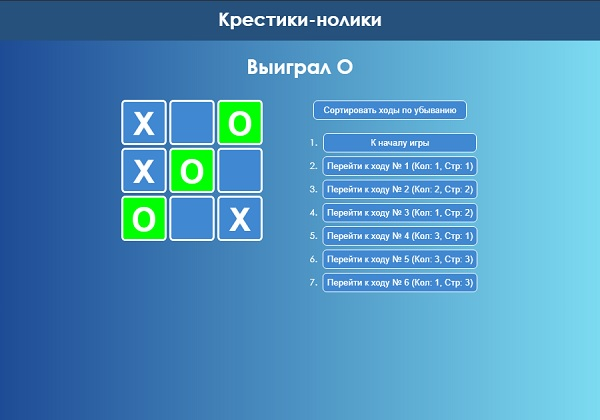
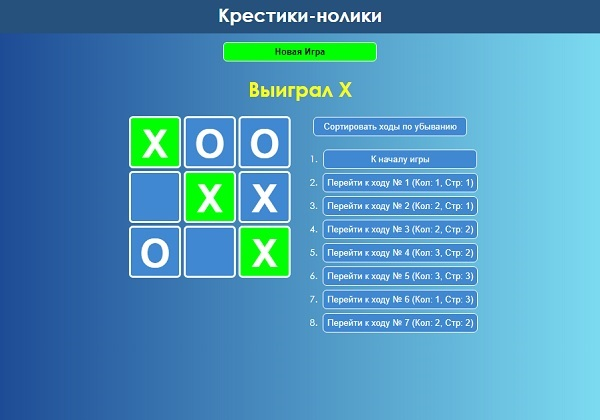
Tic-Tac-Game project has been modified

Changed region(s): [[0.0, 0.0, 1.0, 0.8048]]

diff --git a/projects/tictactoe_game_react/index.html b/projects/tictactoe_game_react/index.html
@@ -1,1 +1,1 @@
-<!doctype html><html lang="en"><head><meta charset="utf-8"/><meta name="viewport" content="width=device-width,initial-scale=1"/><meta name="theme-color" content="#000000"/><meta name="description" content="Web site created using create-react-app"/><link rel="manifest" href="manifest.json"/><title>React App</title><link href="static/css/main.9c473dc5.chunk.css" rel="stylesheet"></head><body><noscript>You need to enable JavaScript to run this app.</noscript><div id="errors" style="background:#c00;color:#fff;display:none;margin:-20px -20px 20px;padding:20px;white-space:pre-wrap"></div><header><h1>Крестики-нолики</h1></header><div id="root"></div><script>window.addEventListener("mousedown",function(t){document.body.classList.add("mouse-navigation"),document.body.classList.remove("kbd-navigation")}),window.addEventListener("keydown",function(t){9===t.keyCode&&(document.body.classList.add("kbd-navigation"),document.body.classList.remove("mouse-navigation"))}),window.addEventListener("click",function(t){"A"===t.target.tagName&&"#"===t.target.getAttribute("href")&&t.preventDefault()}),window.onerror=function(t,e,n,o,r){var i=r?r.stack||r:t+" (at "+e+":"+n+":"+o+")";errors.textContent+=i+"\n",errors.style.display=""},console.error=function(t){return function(){errors.textContent+=Array.prototype.slice.call(arguments).join(" ")+"\n",errors.style.display="",t.apply(this,arguments)}}(console.error)</script><script>!function(i){function e(e){for(var t,r,n=e[0],o=e[1],u=e[2],a=0,c=[];a<n.length;a++)r=n[a],Object.prototype.hasOwnProperty.call(f,r)&&f[r]&&c.push(f[r][0]),f[r]=0;for(t in o)Object.prototype.hasOwnProperty.call(o,t)&&(i[t]=o[t]);for(s&&s(e);c.length;)c.shift()();return p.push.apply(p,u||[]),l()}function l(){for(var e,t=0;t<p.length;t++){for(var r=p[t],n=!0,o=1;o<r.length;o++){var u=r[o];0!==f[u]&&(n=!1)}n&&(p.splice(t--,1),e=a(a.s=r[0]))}return e}var r={},f={1:0},p=[];function a(e){if(r[e])return r[e].exports;var t=r[e]={i:e,l:!1,exports:{}};return i[e].call(t.exports,t,t.exports,a),t.l=!0,t.exports}a.m=i,a.c=r,a.d=function(e,t,r){a.o(e,t)||Object.defineProperty(e,t,{enumerable:!0,get:r})},a.r=function(e){"undefined"!=typeof Symbol&&Symbol.toStringTag&&Object.defineProperty(e,Symbol.toStringTag,{value:"Module"}),Object.defineProperty(e,"__esModule",{value:!0})},a.t=function(t,e){if(1&e&&(t=a(t)),8&e)return t;if(4&e&&"object"==typeof t&&t&&t.__esModule)return t;var r=Object.create(null);if(a.r(r),Object.defineProperty(r,"default",{enumerable:!0,value:t}),2&e&&"string"!=typeof t)for(var n in t)a.d(r,n,function(e){return t[e]}.bind(null,n));return r},a.n=function(e){var t=e&&e.__esModule?function(){return e.default}:function(){return e};return a.d(t,"a",t),t},a.o=function(e,t){return Object.prototype.hasOwnProperty.call(e,t)},a.p="/";var t=this.webpackJsonptictactoe_game_react=this.webpackJsonptictactoe_game_react||[],n=t.push.bind(t);t.push=e,t=t.slice();for(var o=0;o<t.length;o++)e(t[o]);var s=n;l()}([])</script><script src="static/js/2.cf18ddba.chunk.js"></script><script src="static/js/main.7859f1d2.chunk.js"></script></body></html>
+<!doctype html><html lang="ru"><head><meta charset="utf-8"/><meta name="viewport" content="width=device-width,initial-scale=1"/><meta name="description" content="Web site created using create-react-app"/><title>Крестики-нолики</title><link href="static/css/main.ea087faf.chunk.css" rel="stylesheet"></head><body><noscript>You need to enable JavaScript to run this app.</noscript><div id="errors" style="background:#c00;color:#fff;display:none;margin:-20px -20px 20px;padding:20px;white-space:pre-wrap"></div><header><h1>Крестики-нолики</h1></header><div id="root"></div><script>window.addEventListener("mousedown",function(t){document.body.classList.add("mouse-navigation"),document.body.classList.remove("kbd-navigation")}),window.addEventListener("keydown",function(t){9===t.keyCode&&(document.body.classList.add("kbd-navigation"),document.body.classList.remove("mouse-navigation"))}),window.addEventListener("click",function(t){"A"===t.target.tagName&&"#"===t.target.getAttribute("href")&&t.preventDefault()}),window.onerror=function(t,e,n,o,r){var i=r?r.stack||r:t+" (at "+e+":"+n+":"+o+")";errors.textContent+=i+"\n",errors.style.display=""},console.error=function(t){return function(){errors.textContent+=Array.prototype.slice.call(arguments).join(" ")+"\n",errors.style.display="",t.apply(this,arguments)}}(console.error)</script><script>!function(i){function e(e){for(var t,r,n=e[0],o=e[1],u=e[2],a=0,c=[];a<n.length;a++)r=n[a],Object.prototype.hasOwnProperty.call(f,r)&&f[r]&&c.push(f[r][0]),f[r]=0;for(t in o)Object.prototype.hasOwnProperty.call(o,t)&&(i[t]=o[t]);for(s&&s(e);c.length;)c.shift()();return p.push.apply(p,u||[]),l()}function l(){for(var e,t=0;t<p.length;t++){for(var r=p[t],n=!0,o=1;o<r.length;o++){var u=r[o];0!==f[u]&&(n=!1)}n&&(p.splice(t--,1),e=a(a.s=r[0]))}return e}var r={},f={1:0},p=[];function a(e){if(r[e])return r[e].exports;var t=r[e]={i:e,l:!1,exports:{}};return i[e].call(t.exports,t,t.exports,a),t.l=!0,t.exports}a.m=i,a.c=r,a.d=function(e,t,r){a.o(e,t)||Object.defineProperty(e,t,{enumerable:!0,get:r})},a.r=function(e){"undefined"!=typeof Symbol&&Symbol.toStringTag&&Object.defineProperty(e,Symbol.toStringTag,{value:"Module"}),Object.defineProperty(e,"__esModule",{value:!0})},a.t=function(t,e){if(1&e&&(t=a(t)),8&e)return t;if(4&e&&"object"==typeof t&&t&&t.__esModule)return t;var r=Object.create(null);if(a.r(r),Object.defineProperty(r,"default",{enumerable:!0,value:t}),2&e&&"string"!=typeof t)for(var n in t)a.d(r,n,function(e){return t[e]}.bind(null,n));return r},a.n=function(e){var t=e&&e.__esModule?function(){return e.default}:function(){return e};return a.d(t,"a",t),t},a.o=function(e,t){return Object.prototype.hasOwnProperty.call(e,t)},a.p="/";var t=this.webpackJsonptictactoe_game_react=this.webpackJsonptictactoe_game_react||[],n=t.push.bind(t);t.push=e,t=t.slice();for(var o=0;o<t.length;o++)e(t[o]);var s=n;l()}([])</script><script src="static/js/2.cf18ddba.chunk.js"></script><script src="static/js/main.fd8b8632.chunk.js"></script></body></html>

diff --git a/projects/tictactoe_game_react/static/js/main.fd8b8632.chunk.js b/projects/tictactoe_game_react/static/js/main.fd8b8632.chunk.js
@@ -1,0 +1,2 @@
+(this.webpackJsonptictactoe_game_react=this.webpackJsonptictactoe_game_react||[]).push([[0],{14:function(e,t,a){},15:function(e,t,a){"use strict";a.r(t);var n=a(8),r=a(1),s=a(2),i=a(5),l=a(3),u=a(6),o=a(0),c=a.n(o),h=a(4),m=a.n(h);a(14),Boolean("localhost"===window.location.hostname||"[::1]"===window.location.hostname||window.location.hostname.match(/^127(?:\.(?:25[0-5]|2[0-4][0-9]|[01]?[0-9][0-9]?)){3}$/));function g(e){return c.a.createElement("button",{className:"square",onClick:e.onClick},e.value)}var d=function(e){function t(){return Object(r.a)(this,t),Object(i.a)(this,Object(l.a)(t).apply(this,arguments))}return Object(u.a)(t,e),Object(s.a)(t,[{key:"renderSquare",value:function(e){var t=this;return c.a.createElement(g,{value:this.props.squares[e],onClick:function(){return t.props.onClick(e)}})}},{key:"renderRow",value:function(e){return c.a.createElement("div",{className:"board-row"},this.renderSquare(e),this.renderSquare(e+1),this.renderSquare(e+2))}},{key:"render",value:function(){return c.a.createElement("div",null,this.renderRow(0),this.renderRow(3),this.renderRow(6))}}]),t}(c.a.Component),v=function(e){function t(e){var a;return Object(r.a)(this,t),(a=Object(i.a)(this,Object(l.a)(t).call(this,e))).state={history:[{squares:Array(9).fill(null),changedSquare:null}],stepNumber:0,xIsNext:!0,movesArray:[],highlightedMove:null,ascendingSequence:!0},a}return Object(u.a)(t,e),Object(s.a)(t,[{key:"handleClick",value:function(e){var t=this.state.history.slice(0,this.state.stepNumber+1),a=t[t.length-1].squares.slice();this.removeHighlightOfSquare();var n=e,r=this.state.movesArray.slice();r.push(n),f(a)[0]||a[e]||(a[e]=this.state.xIsNext?"X":"O",this.setState({history:t.concat([{squares:a,changedSquare:e}]),stepNumber:t.length,xIsNext:!this.state.xIsNext,movesArray:r}))}},{key:"jumpTo",value:function(e){this.removeHighlightWinnerSquare(),this.removeHighlightOfSquare(),this.setState({stepNumber:e,xIsNext:e%2===0}),this.highlightSquare(e)}},{key:"highlightSquare",value:function(e){e<1||document.getElementsByClassName("game-board")[0].getElementsByClassName("square")[this.state.history[e].changedSquare].classList.add("highlighted-square")}},{key:"removeHighlightOfSquare",value:function(){var e=document.getElementsByClassName("game-board")[0].getElementsByClassName("highlighted-square")[0];e&&e.classList.remove("highlighted-square")}},{key:"highlightWinnerSquare",value:function(e){for(var t=document.getElementsByClassName("game-board")[0].getElementsByClassName("square"),a=0;a<t.length;a++)for(var n=0;n<e.length;n++)a===e[n]&&t[a].classList.add("highlighted-winner-square")}},{key:"removeHighlightWinnerSquare",value:function(){var e=document.getElementsByClassName("game-board")[0],t=Array.from(e.getElementsByClassName("highlighted-winner-square"));if(t[0])for(var a=0;a<t.length;a++)t[a].classList.remove("highlighted-winner-square")}},{key:"render",value:function(){var e,t=this,a=this.state.history,n=a[this.state.stepNumber],r=f(n.squares)[0],s="\u0421\u043e\u0440\u0442\u0438\u0440\u043e\u0432\u0430\u0442\u044c \u0445\u043e\u0434\u044b \u043f\u043e \u0443\u0431\u044b\u0432\u0430\u043d\u0438\u044e",i=a.map((function(e,a){var n=a?"\u041f\u0435\u0440\u0435\u0439\u0442\u0438 \u043a \u0445\u043e\u0434\u0443 \u2116 ".concat(a," (\u041a\u043e\u043b: ").concat(q(t.state.movesArray[a-1])[0],", C\u0442\u0440: ").concat(q(t.state.movesArray[a-1])[1],")"):"\u041a \u043d\u0430\u0447\u0430\u043b\u0443 \u0438\u0433\u0440\u044b";return c.a.createElement("li",{key:a},c.a.createElement("button",{onClick:function(){return t.jumpTo(a)}},n))}));if(this.state.ascendingSequence||(i=i.reverse(),s="\u0421\u043e\u0440\u0442\u0438\u0440\u043e\u0432\u0430\u0442\u044c \u0445\u043e\u0434\u044b \u043f\u043e \u0432\u043e\u0437\u0440\u0430\u0441\u0442\u0430\u043d\u0438\u044e"),r){var l=f(n.squares)[1];this.highlightWinnerSquare(l),e="\u0412\u044b\u0438\u0433\u0440\u0430\u043b "+r}else e=function(e){for(var t=0;t<e.length;t++)if(null==e[t])return!0;return!1}(n.squares)?"\u0421\u043b\u0435\u0434\u0443\u044e\u0449\u0438\u0439 \u0445\u043e\u0434: "+(this.state.xIsNext?"X":"O"):"\u041d\u0438\u0447\u044c\u044f";return c.a.createElement("div",{className:"game"},c.a.createElement("div",{className:"new-game"},c.a.createElement("button",{className:"new-game-button",onClick:function(){return t.jumpTo(0)}},"\u041d\u043e\u0432\u0430\u044f \u0418\u0433\u0440\u0430")),c.a.createElement("div",{className:"game-status"},e),c.a.createElement("div",{className:"game-main"},c.a.createElement("div",{className:"game-board"},c.a.createElement(d,{squares:n.squares,onClick:function(e){return t.handleClick(e)}})),c.a.createElement("div",{className:"game-info"},c.a.createElement("button",{className:"sorting",onClick:function(){return t.setState({ascendingSequence:!t.state.ascendingSequence})}},s),c.a.createElement("ol",null,i))))}}]),t}(c.a.Component);function f(e){for(var t=[[0,1,2],[3,4,5],[6,7,8],[0,3,6],[1,4,7],[2,5,8],[0,4,8],[2,4,6]],a=0;a<t.length;a++){var r=Object(n.a)(t[a],3),s=r[0],i=r[1],l=r[2];if(e[s]&&e[s]===e[i]&&e[s]===e[l])return[e[s],t[a]]}return[null]}function q(e){return[[1,1,0],[2,1,1],[3,1,2],[1,2,3],[2,2,4],[3,2,5],[1,3,6],[2,3,7],[3,3,8]][e]}m.a.render(c.a.createElement(v,null),document.getElementById("root")),m.a.render(c.a.createElement(v,null),document.getElementById("root")),"serviceWorker"in navigator&&navigator.serviceWorker.ready.then((function(e){e.unregister()}))},9:function(e,t,a){e.exports=a(15)}},[[9,1,2]]]);
+//# sourceMappingURL=main.fd8b8632.chunk.js.map

diff --git a/projects/tictactoe_game_react/static/css/main.ea087faf.chunk.css b/projects/tictactoe_game_react/static/css/main.ea087faf.chunk.css
@@ -1,0 +1,2 @@
+*{box-sizing:border-box}body{font-family:-apple-system,BlinkMacSystemFont,Segoe UI,Roboto,Oxygen,Ubuntu,Cantarell,Fira Sans,Droid Sans,Helvetica Neue,sans-serif;-webkit-font-smoothing:antialiased;-moz-osx-font-smoothing:grayscale}code{font-family:source-code-pro,Menlo,Monaco,Consolas,Courier New,monospace}body{font:14px Century Gothic,Futura,sans-serif;color:#fff;margin:0;background-image:-webkit-gradient(linear,right top,left top,from(#7cdbf1),to(#1e4c96));background-image:linear-gradient(-90deg,#7cdbf1,#1e4c96);background-repeat:repeat;background-size:cover}header{height:50px;background-color:#26517c;padding:5px 0}header h1{color:#fff;text-align:center;margin:0}ol,ul{padding-left:30px}.status{margin-bottom:10px}.square{background:#4188d2;border:3px solid #fff;color:#fff;border-radius:6px;font-size:58px;font-weight:700;line-height:78px;height:78px;padding:0;text-align:center;width:78px}.highlighted-square{background:red}.highlighted-winner-square{background:#0f0}.square:focus{outline:none}.kbd-navigation .square:focus{background:#ddd}#root{justify-content:center}#root,.game{display:flex}.game{flex-direction:column}.game-main{display:flex;flex-direction:row;flex-wrap:wrap;justify-content:center}.game-board{min-width:270px;margin:10px 0}.board-row{display:flex;justify-content:center}.game-board button{margin:2px}.game-info{min-width:270px;text-align:center;margin:10px 0}.game-info button{min-width:230px;border:1px solid #fff;border-radius:6px;background:#4188d2;color:#fff;margin:3px;padding:6px}.game-info button:hover{color:#000;background-color:#fff}.new-game{display:flex;justify-content:center;padding:10px}.new-game-button{min-width:230px;border:1px solid #fff;border-radius:6px;background:#0f0;color:#000;margin:3px;padding:6px;font-weight:700}.new-game-button:hover{background:#4188d2;color:#fff}.game-status{font-size:30px;font-weight:700;margin:10px 0;text-align:center;color:#ff0}button:hover{cursor:pointer;background-color:#26517c}
+/*# sourceMappingURL=main.ea087faf.chunk.css.map */
